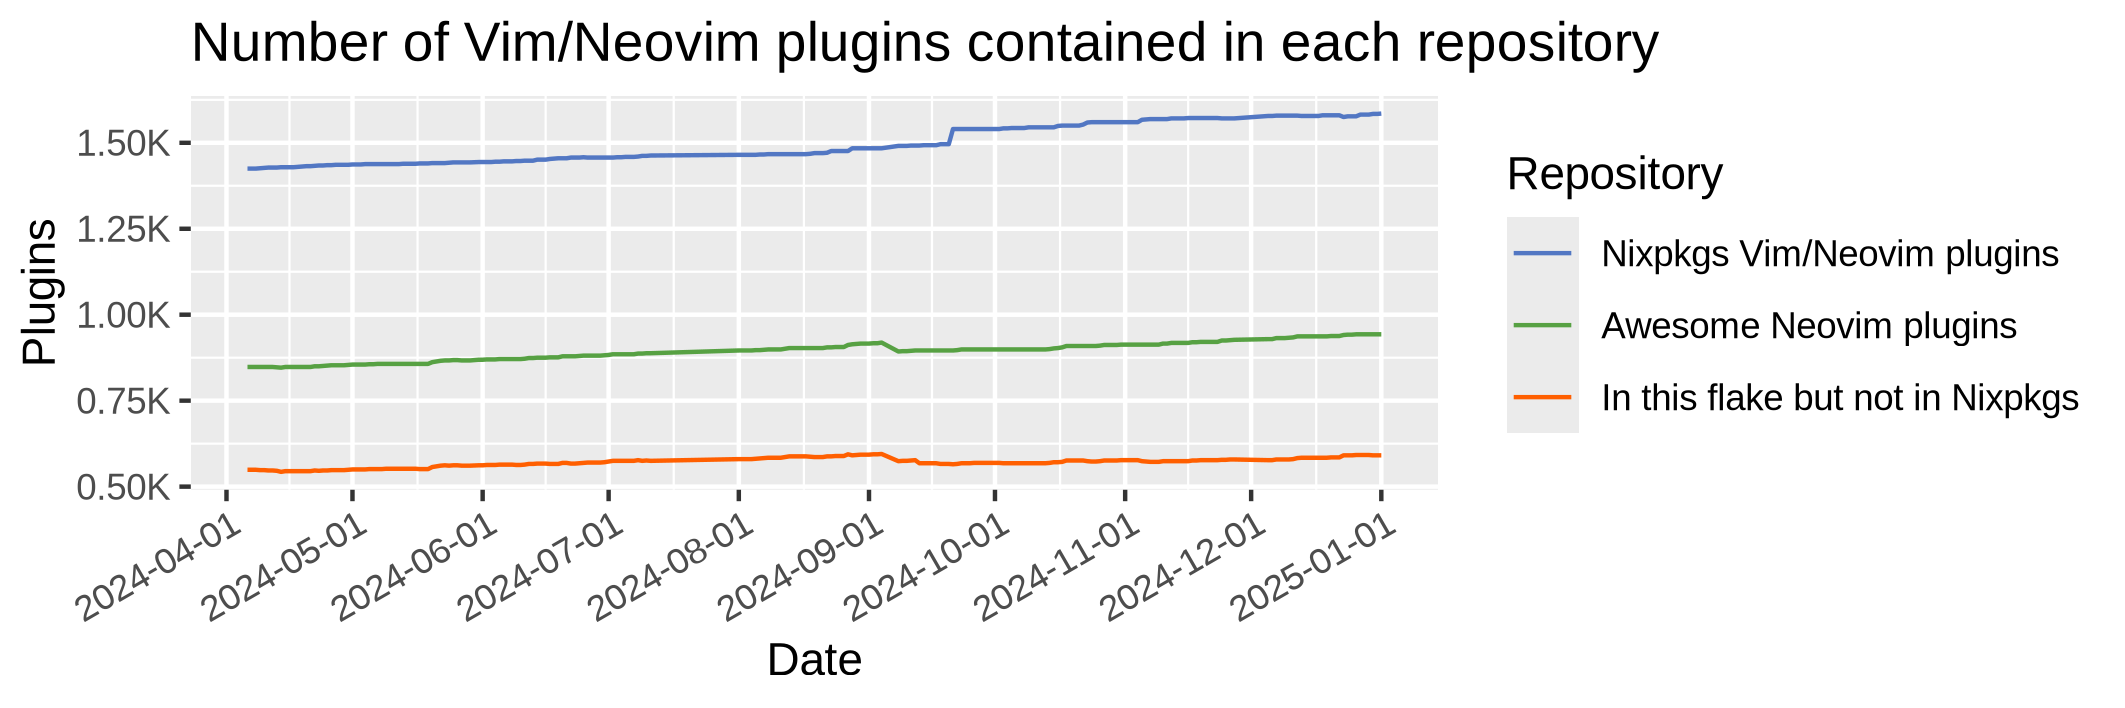
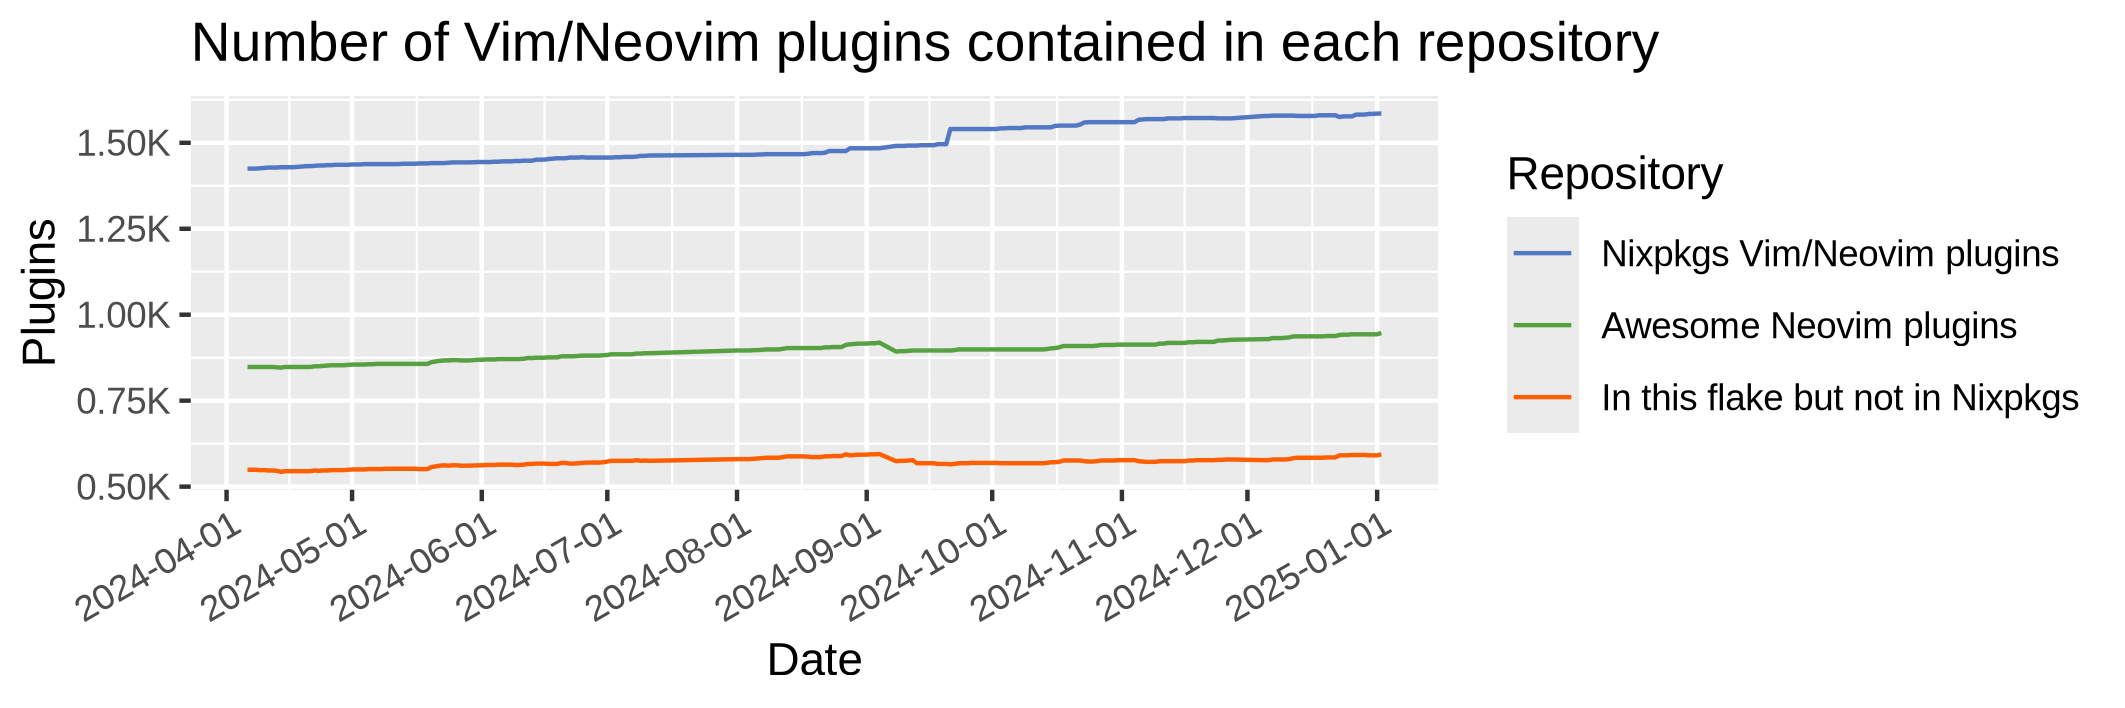
auto: update vim plugins

diff --git a/README.md b/README.md
@@ -8,7 +8,7 @@ Nix flake of Awesome Neovim plugins.
 
 [b1]: https://img.shields.io/github/actions/workflow/status/m15a/flake-awesome-neovim-plugins/check.yml?style=flat-square&logo=github&label=CI
 [b2]: https://github.com/m15a/flake-awesome-neovim-plugins/actions/workflows/check.yml
-[b3]: https://img.shields.io/badge/Awesome_Neovim_plugins-943-57A143?style=flat-square
+[b3]: https://img.shields.io/badge/Awesome_Neovim_plugins-947-57A143?style=flat-square
 [b4]: https://img.shields.io/endpoint?url=https://flakehub.com/f/m15a/flake-awesome-neovim-plugins/badge&style=flat-square
 [b5]: https://flakehub.com/flake/m15a/flake-awesome-neovim-plugins
 
